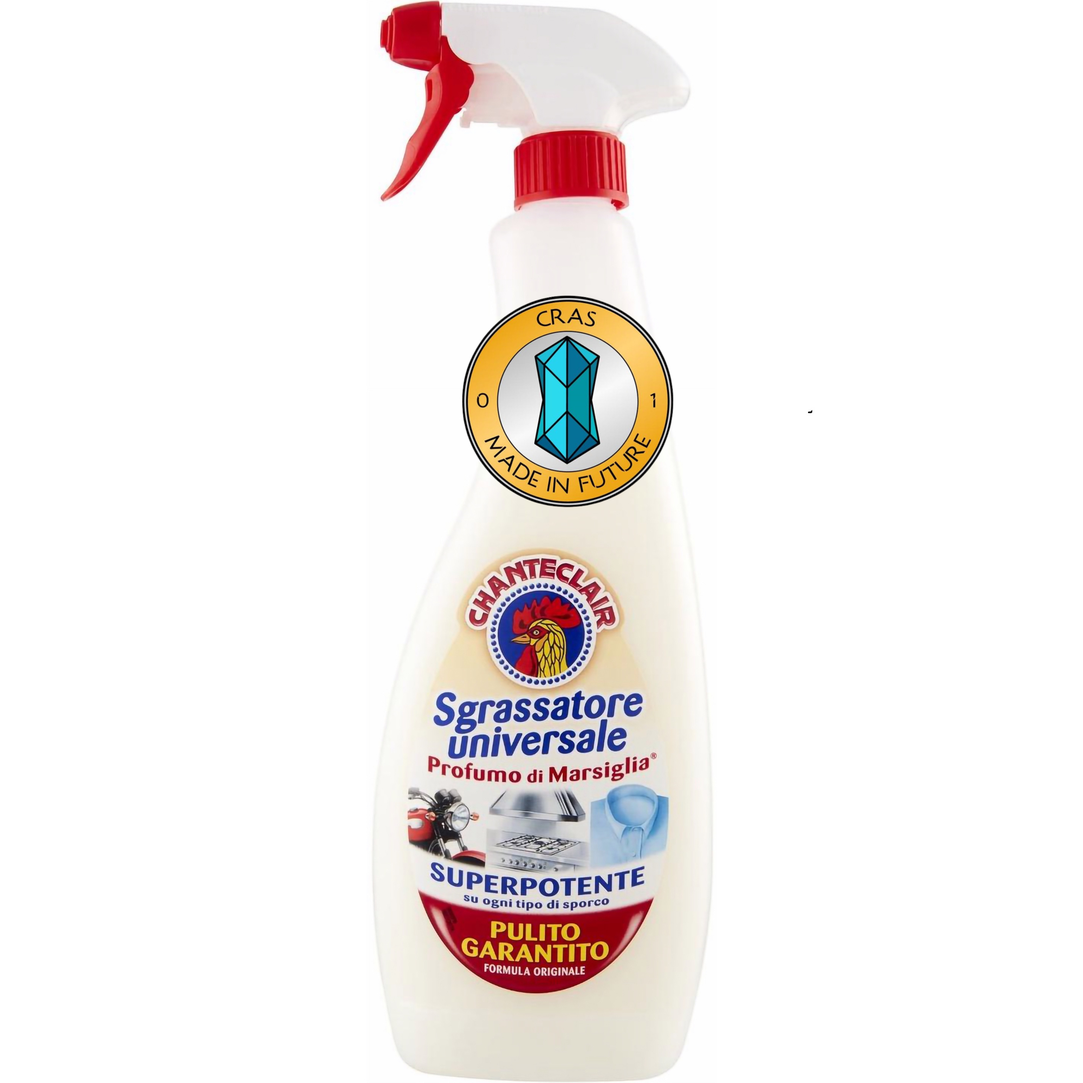
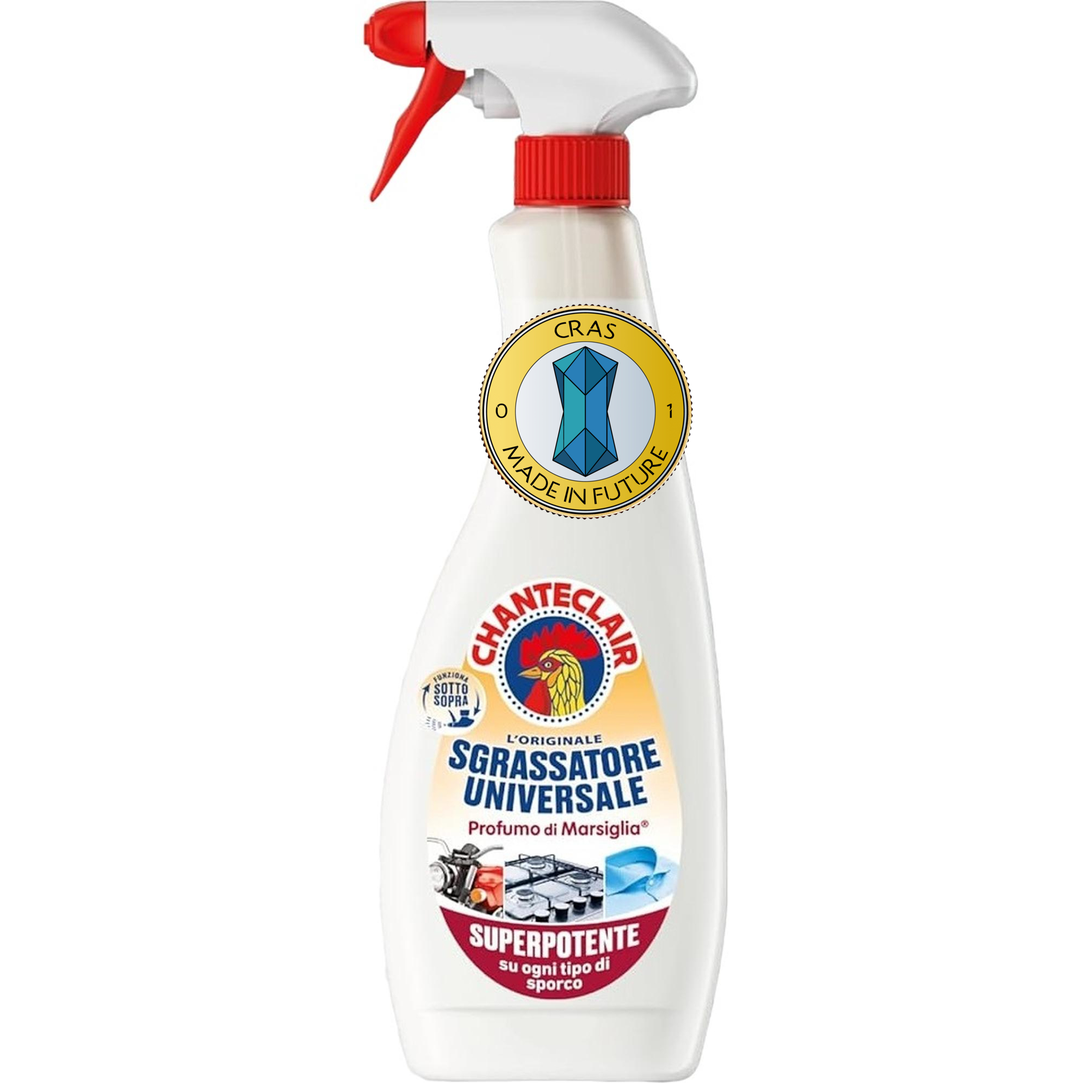
New style Chanteclair Marsiglia

Changed region(s): [[0.341, 0.0, 0.682, 1.0]]

diff --git a/js/household_chemicals/array-stain-removers.js b/js/household_chemicals/array-stain-removers.js
@@ -651,41 +651,41 @@ export const shopLotsStainRemovers = [
         countryName: "Італія",
         volumeName: "Об'єм",
         volume: "600 мл.",
-        priceGRN: 132,
-        priceGRNOpt: 116,
+        priceGRN: 143,
+        priceGRNOpt: 121,
         description01: "Представляємо Вам ідеальний засіб &#171Chanteclair - Sgrassatore Universale Profumo Di Limone&#187 - знежирювач та засіб для виведення плям з ароматом лимону.",
         description02: "Цей універсальний засіб ефективно розчиняє жир та видаляє плями, а його ніжний аромат лимону наповнює простір чистотою та гармонією.",
         description03: "Завдяки &#171Chanteclair - Sgrassatore Universale Profumo Di Limone&#187 Ваша кожна річ стане не тільки чистою, але і наповненою чарівним ароматом лимону. Задовольняйте своє бажання насолоджуватися приємними запахами та бездоганною чистотою.",
         description04: "<strong>Запаска! Знежирювач універсальний, засіб для виведення плям. Аромат: лимон. Не застосовувати з іншими засобами!</strong>",
         description05: "Покращте якість прибирання свого дому просто зараз - замовте &#171Chanteclair - Sgrassatore Universale Profumo Di Limone&#187 та створіть неповторний ароматичний шедевр у кожному куточку Вашого життя!"
     },
-    // {
-    //     type: "wholesale оптом",
-    //     mainCategory: "household-chemicals",
-    //     subcategory: "detergents",
-    //     url: "./images/shop/household_chemicals/universal_tools/chanteclair_sgrassatore_universale_marsiglia_600.jpg",
-    //     alt: "chanteclair_sgrassatore_universale_marsiglia_600",
-    //     url1: "./images/shop/household_chemicals/universal_tools/chanteclair_sgrassatore_universale_marsiglia_600-01.jpg",
-    //     alt1: "chanteclair_sgrassatore_universale_marsiglia_600-01",
-    //     url2: "./images/shop/household_chemicals/universal_tools/chanteclair_sgrassatore_universale_marsiglia_600-02.jpg",
-    //     alt2: "chanteclair_sgrassatore_universale_marsiglia_600-02",
-    //     marker: "HCUT135",
-    //     brand: "Chanteclair",
-    //     search: "шантеклер півник півень петух петушок засоби видалення пляма плямовивідники пятновыводитель пятновыдодители засіб проти жиру обезжириватель средство средства против жира с ароматом марсель марселя",
-    //     nameUKR: "Універсальний знежирювач, засіб для виведення плям з марсельським милом",
-    //     nameEN: "Sgrassatore Universale Profumo Di Marsiglia",
-    //     companyName: "Real Chimica Srl",
-    //     countryName: "Італія",
-    //     volumeName: "Об'єм",
-    //     volume: "600 мл.",
-    //     priceGRN: 143,
-    //     priceGRNOpt: 121,
-    //     description01: "Представляємо Вам ідеальний засіб &#171Chanteclair - Sgrassatore Universale Profumo Di Marsiglia&#187 - знежирювач та засіб для виведення плям з марсельським милом.",
-    //     description02: "Цей універсальний засіб ефективно розчиняє жир та видаляє плями, а його ніжний марсельський аромат наповнює простір чистотою та гармонією.",
-    //     description03: "Завдяки &#171Chanteclair - Sgrassatore Universale Profumo Di Marsiglia&#187 Ваша кожна річ стане не тільки чистою, але і наповненою чарівним марсельським милом. Задовольняйте своє бажання насолоджуватися приємними запахами та бездоганною чистотою.",
-    //     description04: "<strong>Знежирювач універсальний, засіб для виведення плям. Аромат: марсельське мило. Не застосовувати з іншими засобами!</strong>",
-    //     description05: "Покращте якість прибирання свого дому просто зараз - замовте &#171Chanteclair - Sgrassatore Universale Profumo Di Marsiglia&#187 та створіть неповторний ароматичний шедевр у кожному куточку Вашого життя!"
-    // },
+    {
+        type: "wholesale оптом",
+        mainCategory: "household-chemicals",
+        subcategory: "detergents",
+        url: "./images/shop/household_chemicals/universal_tools/chanteclair_sgrassatore_universale_marsiglia_600.jpg",
+        alt: "chanteclair_sgrassatore_universale_marsiglia_600",
+        url1: "./images/shop/household_chemicals/universal_tools/chanteclair_sgrassatore_universale_marsiglia_600-01.jpg",
+        alt1: "chanteclair_sgrassatore_universale_marsiglia_600-01",
+        url2: "./images/shop/household_chemicals/universal_tools/chanteclair_sgrassatore_universale_marsiglia_600-02.jpg",
+        alt2: "chanteclair_sgrassatore_universale_marsiglia_600-02",
+        marker: "HCUT135",
+        brand: "Chanteclair",
+        search: "шантеклер півник півень петух петушок засоби видалення пляма плямовивідники пятновыводитель пятновыдодители засіб проти жиру обезжириватель средство средства против жира с ароматом марсель марселя",
+        nameUKR: "Універсальний знежирювач, засіб для виведення плям з марсельським милом",
+        nameEN: "Sgrassatore Universale Profumo Di Marsiglia",
+        companyName: "Real Chimica Srl",
+        countryName: "Італія",
+        volumeName: "Об'єм",
+        volume: "600 мл.",
+        priceGRN: 143,
+        priceGRNOpt: 121,
+        description01: "Представляємо Вам ідеальний засіб &#171Chanteclair - Sgrassatore Universale Profumo Di Marsiglia&#187 - знежирювач та засіб для виведення плям з марсельським милом.",
+        description02: "Цей універсальний засіб ефективно розчиняє жир та видаляє плями, а його ніжний марсельський аромат наповнює простір чистотою та гармонією.",
+        description03: "Завдяки &#171Chanteclair - Sgrassatore Universale Profumo Di Marsiglia&#187 Ваша кожна річ стане не тільки чистою, але і наповненою чарівним марсельським милом. Задовольняйте своє бажання насолоджуватися приємними запахами та бездоганною чистотою.",
+        description04: "<strong>Знежирювач універсальний, засіб для виведення плям. Аромат: марсельське мило. Не застосовувати з іншими засобами!</strong>",
+        description05: "Покращте якість прибирання свого дому просто зараз - замовте &#171Chanteclair - Sgrassatore Universale Profumo Di Marsiglia&#187 та створіть неповторний ароматичний шедевр у кожному куточку Вашого життя!"
+    },
     {
         type: "wholesale оптом",
         mainCategory: "household-chemicals",

diff --git a/js/household_chemicals/array-means-cleaning-kitchen-bathroom.js b/js/household_chemicals/array-means-cleaning-kitchen-bathroom.js
@@ -1147,33 +1147,33 @@ export const shopLotsMeansCleaningKitchenBathroom = [
         description04: "<strong>Запаска! Знежирювач універсальний, засіб для виведення плям. Аромат: лимон. Не застосовувати з іншими засобами!</strong>",
         description05: "Покращте якість прибирання свого дому просто зараз - замовте &#171Chanteclair - Sgrassatore Universale Profumo Di Limone&#187 та створіть неповторний ароматичний шедевр у кожному куточку Вашого життя!"
     },
-    // {
-    //     type: "wholesale оптом",
-    //     mainCategory: "household-chemicals",
-    //     subcategory: "cleaning-care-products",
-    //     url: "./images/shop/household_chemicals/universal_tools/chanteclair_sgrassatore_universale_marsiglia_600.jpg",
-    //     alt: "chanteclair_sgrassatore_universale_marsiglia_600",
-    //     url1: "./images/shop/household_chemicals/universal_tools/chanteclair_sgrassatore_universale_marsiglia_600-01.jpg",
-    //     alt1: "chanteclair_sgrassatore_universale_marsiglia_600-01",
-    //     url2: "./images/shop/household_chemicals/universal_tools/chanteclair_sgrassatore_universale_marsiglia_600-02.jpg",
-    //     alt2: "chanteclair_sgrassatore_universale_marsiglia_600-02",
-    //     marker: "HCUT135",
-    //     brand: "Chanteclair",
-    //     search: "шантеклер півник півень петух петушок засоби видалення пляма плямовивідник плямовивідники пятновыводитель пятновыдодители засіб проти жиру обезжириватель средство средства против жира с ароматом марсель марселя",
-    //     nameUKR: "Універсальний знежирювач, засіб для виведення плям з марсельським милом",
-    //     nameEN: "Sgrassatore Universale Profumo Di Marsiglia",
-    //     companyName: "Real Chimica Srl",
-    //     countryName: "Італія",
-    //     volumeName: "Об'єм",
-    //     volume: "600 мл.",
-    //     priceGRN: 143,
-    //     priceGRNOpt: 121,
-    //     description01: "Представляємо Вам ідеальний засіб &#171Chanteclair - Sgrassatore Universale Profumo Di Marsiglia&#187 - знежирювач та засіб для виведення плям з марсельським милом.",
-    //     description02: "Цей універсальний засіб ефективно розчиняє жир та видаляє плями, а його ніжний марсельський аромат наповнює простір чистотою та гармонією.",
-    //     description03: "Завдяки &#171Chanteclair - Sgrassatore Universale Profumo Di Marsiglia&#187 Ваша кожна річ стане не тільки чистою, але і наповненою чарівним марсельським милом. Задовольняйте своє бажання насолоджуватися приємними запахами та бездоганною чистотою.",
-    //     description04: "<strong>Знежирювач універсальний, засіб для виведення плям. Аромат: марсельське мило. Не застосовувати з іншими засобами!</strong>",
-    //     description05: "Покращте якість прибирання свого дому просто зараз - замовте &#171Chanteclair - Sgrassatore Universale Profumo Di Marsiglia&#187 та створіть неповторний ароматичний шедевр у кожному куточку Вашого життя!"
-    // },
+    {
+        type: "wholesale оптом",
+        mainCategory: "household-chemicals",
+        subcategory: "cleaning-care-products",
+        url: "./images/shop/household_chemicals/universal_tools/chanteclair_sgrassatore_universale_marsiglia_600.jpg",
+        alt: "chanteclair_sgrassatore_universale_marsiglia_600",
+        url1: "./images/shop/household_chemicals/universal_tools/chanteclair_sgrassatore_universale_marsiglia_600-01.jpg",
+        alt1: "chanteclair_sgrassatore_universale_marsiglia_600-01",
+        url2: "./images/shop/household_chemicals/universal_tools/chanteclair_sgrassatore_universale_marsiglia_600-02.jpg",
+        alt2: "chanteclair_sgrassatore_universale_marsiglia_600-02",
+        marker: "HCUT135",
+        brand: "Chanteclair",
+        search: "шантеклер півник півень петух петушок засоби видалення пляма плямовивідник плямовивідники пятновыводитель пятновыдодители засіб проти жиру обезжириватель средство средства против жира с ароматом марсель марселя",
+        nameUKR: "Універсальний знежирювач, засіб для виведення плям з марсельським милом",
+        nameEN: "Sgrassatore Universale Profumo Di Marsiglia",
+        companyName: "Real Chimica Srl",
+        countryName: "Італія",
+        volumeName: "Об'єм",
+        volume: "600 мл.",
+        priceGRN: 143,
+        priceGRNOpt: 121,
+        description01: "Представляємо Вам ідеальний засіб &#171Chanteclair - Sgrassatore Universale Profumo Di Marsiglia&#187 - знежирювач та засіб для виведення плям з марсельським милом.",
+        description02: "Цей універсальний засіб ефективно розчиняє жир та видаляє плями, а його ніжний марсельський аромат наповнює простір чистотою та гармонією.",
+        description03: "Завдяки &#171Chanteclair - Sgrassatore Universale Profumo Di Marsiglia&#187 Ваша кожна річ стане не тільки чистою, але і наповненою чарівним марсельським милом. Задовольняйте своє бажання насолоджуватися приємними запахами та бездоганною чистотою.",
+        description04: "<strong>Знежирювач універсальний, засіб для виведення плям. Аромат: марсельське мило. Не застосовувати з іншими засобами!</strong>",
+        description05: "Покращте якість прибирання свого дому просто зараз - замовте &#171Chanteclair - Sgrassatore Universale Profumo Di Marsiglia&#187 та створіть неповторний ароматичний шедевр у кожному куточку Вашого життя!"
+    },
     {
         type: "wholesale оптом",
         mainCategory: "household-chemicals",

diff --git a/js/household_chemicals/array-means-cleaning-universal.js b/js/household_chemicals/array-means-cleaning-universal.js
@@ -601,33 +601,33 @@ export const shopLotsMeansCleaningUniversal = [
         description04: "<strong>Запаска! Знежирювач універсальний, засіб для виведення плям. Аромат: лимон. Не застосовувати з іншими засобами!</strong>",
         description05: "Покращте якість прибирання свого дому просто зараз - замовте &#171Chanteclair - Sgrassatore Universale Profumo Di Limone&#187 та створіть неповторний ароматичний шедевр у кожному куточку Вашого життя!"
     },
-    // {
-    //     type: "wholesale оптом",
-    //     mainCategory: "household-chemicals",
-    //     subcategory: "cleaning-care-products",
-    //     url: "./images/shop/household_chemicals/universal_tools/chanteclair_sgrassatore_universale_marsiglia_600.jpg",
-    //     alt: "chanteclair_sgrassatore_universale_marsiglia_600",
-    //     url1: "./images/shop/household_chemicals/universal_tools/chanteclair_sgrassatore_universale_marsiglia_600-01.jpg",
-    //     alt1: "chanteclair_sgrassatore_universale_marsiglia_600-01",
-    //     url2: "./images/shop/household_chemicals/universal_tools/chanteclair_sgrassatore_universale_marsiglia_600-02.jpg",
-    //     alt2: "chanteclair_sgrassatore_universale_marsiglia_600-02",
-    //     marker: "HCUT135",
-    //     brand: "Chanteclair",
-    //     search: "шантеклер півник півень петух петушок засоби видалення пляма плямовивідник плямовивідники пятновыводитель пятновыдодители засіб проти жиру обезжириватель средство средства против жира с ароматом марсель марселя",
-    //     nameUKR: "Універсальний знежирювач, засіб для виведення плям з марсельським милом",
-    //     nameEN: "Sgrassatore Universale Profumo Di Marsiglia",
-    //     companyName: "Real Chimica Srl",
-    //     countryName: "Італія",
-    //     volumeName: "Об'єм",
-    //     volume: "600 мл.",
-    //     priceGRN: 143,
-    //     priceGRNOpt: 121,
-    //     description01: "Представляємо Вам ідеальний засіб &#171Chanteclair - Sgrassatore Universale Profumo Di Marsiglia&#187 - знежирювач та засіб для виведення плям з марсельським милом.",
-    //     description02: "Цей універсальний засіб ефективно розчиняє жир та видаляє плями, а його ніжний марсельський аромат наповнює простір чистотою та гармонією.",
-    //     description03: "Завдяки &#171Chanteclair - Sgrassatore Universale Profumo Di Marsiglia&#187 Ваша кожна річ стане не тільки чистою, але і наповненою чарівним марсельським милом. Задовольняйте своє бажання насолоджуватися приємними запахами та бездоганною чистотою.",
-    //     description04: "<strong>Знежирювач універсальний, засіб для виведення плям. Аромат: марсельське мило. Не застосовувати з іншими засобами!</strong>",
-    //     description05: "Покращте якість прибирання свого дому просто зараз - замовте &#171Chanteclair - Sgrassatore Universale Profumo Di Marsiglia&#187 та створіть неповторний ароматичний шедевр у кожному куточку Вашого життя!"
-    // },
+    {
+        type: "wholesale оптом",
+        mainCategory: "household-chemicals",
+        subcategory: "cleaning-care-products",
+        url: "./images/shop/household_chemicals/universal_tools/chanteclair_sgrassatore_universale_marsiglia_600.jpg",
+        alt: "chanteclair_sgrassatore_universale_marsiglia_600",
+        url1: "./images/shop/household_chemicals/universal_tools/chanteclair_sgrassatore_universale_marsiglia_600-01.jpg",
+        alt1: "chanteclair_sgrassatore_universale_marsiglia_600-01",
+        url2: "./images/shop/household_chemicals/universal_tools/chanteclair_sgrassatore_universale_marsiglia_600-02.jpg",
+        alt2: "chanteclair_sgrassatore_universale_marsiglia_600-02",
+        marker: "HCUT135",
+        brand: "Chanteclair",
+        search: "шантеклер півник півень петух петушок засоби видалення пляма плямовивідник плямовивідники пятновыводитель пятновыдодители засіб проти жиру обезжириватель средство средства против жира с ароматом марсель марселя",
+        nameUKR: "Універсальний знежирювач, засіб для виведення плям з марсельським милом",
+        nameEN: "Sgrassatore Universale Profumo Di Marsiglia",
+        companyName: "Real Chimica Srl",
+        countryName: "Італія",
+        volumeName: "Об'єм",
+        volume: "600 мл.",
+        priceGRN: 143,
+        priceGRNOpt: 121,
+        description01: "Представляємо Вам ідеальний засіб &#171Chanteclair - Sgrassatore Universale Profumo Di Marsiglia&#187 - знежирювач та засіб для виведення плям з марсельським милом.",
+        description02: "Цей універсальний засіб ефективно розчиняє жир та видаляє плями, а його ніжний марсельський аромат наповнює простір чистотою та гармонією.",
+        description03: "Завдяки &#171Chanteclair - Sgrassatore Universale Profumo Di Marsiglia&#187 Ваша кожна річ стане не тільки чистою, але і наповненою чарівним марсельським милом. Задовольняйте своє бажання насолоджуватися приємними запахами та бездоганною чистотою.",
+        description04: "<strong>Знежирювач універсальний, засіб для виведення плям. Аромат: марсельське мило. Не застосовувати з іншими засобами!</strong>",
+        description05: "Покращте якість прибирання свого дому просто зараз - замовте &#171Chanteclair - Sgrassatore Universale Profumo Di Marsiglia&#187 та створіть неповторний ароматичний шедевр у кожному куточку Вашого життя!"
+    },
     {
         type: "wholesale оптом",
         mainCategory: "household-chemicals",

diff --git a/js/array-new-items.js b/js/array-new-items.js
@@ -1,6 +1,33 @@
 export const shopLotsNewItems = [
     {
         type: "wholesale оптом",
+        mainCategory: "hygiene-products",
+        subcategory: "wipes",
+        url: "./images/shop/gigiena/wipes/wet_wipes/babybella_wet_wipes_super_soft_120.jpg",
+        alt: "babybella_wet_wipes_super_soft_120",
+        url1: "./images/shop/gigiena/wipes/wet_wipes/babybella_wet_wipes_super_soft_120-01.jpg",
+        alt1: "babybella_wet_wipes_super_soft_120-01",
+        url2: "./images/shop/gigiena/wipes/wet_wipes/babybella_wet_wipes_super_soft_120-02.jpg",
+        alt2: "babybella_wet_wipes_super_soft_120-02",
+        marker: "WTWS075",
+        brand: "Babybella",
+        search: "детская детские серветка влажная влажные салфетка салфетки супер мягкие",
+        nameUKR: "Дитячі вологі серветки, супер м'які",
+        nameEN: "Super Soft",
+        companyName: "Ariya Imex Tekstil",
+        countryName: "Туреччина",
+        quantityName: "Кількість",
+        quantity: "120 шт.",
+        priceGRN: 49,
+        priceGRNOpt: 44,
+        description01: "Дитячі вологі серветки &#171Babybella - Super Soft&#187 – ніжність, яку відчуваєш з першого дотику.",
+        description02: "Їх м’яка текстура дбайливо очищує шкіру малюка, не викликаючи подразнень, ідеально підходить навіть для найчутливішої шкіри.",
+        description03: "&#171Babybella - Super Soft&#187 не містять спирту, парабенів та зайвих добавок — тільки турбота і безпека у кожному русі.",
+        description04: "<strong>Дитячі вологі серветки. Без алкоголю, парабенів. Містить пластик. Підходять для будь-якого типу шкіри.</strong>",
+        description05: "Додайте &#171Babybella - Super Soft&#187 до своєї щоденної рутини догляду з упевненістю і спокоєм!"
+    },
+    {
+        type: "wholesale оптом",
         mainCategory: "household-chemicals",
         subcategory: "detergents",
         url: "./images/shop/household_chemicals/laundry_detergents/stain_removers/denkmit_multi_flecken_entferner_oxi_power_750.jpg",
@@ -56,6 +83,33 @@ export const shopLotsNewItems = [
         description03: "Безпечний склад &#171Denkmit - Power-Weiss Oxi Power&#187 без барвників і консервантів працює як підсилювач прального засобу або для попередньої обробки.",
         description04: "<strong>Засіб для виведення плям, для білих речей. Активний кисень (15-30%). Підсилювач прального засобу та для попередньої обробки. Антисивина. Нейтралізатор запахів. Без барвників та консервантів. Не підходить для вовни та шовку.</strong>",
         description05: "Оберіть &#171Denkmit - Power-Weiss Oxi Power&#187, щоб Ваші речі знову стали сліпуче білими!"
+    },
+    {
+        type: "wholesale оптом",
+        mainCategory: "household-chemicals",
+        subcategory: "detergents",
+        url: "./images/shop/household_chemicals/universal_tools/chanteclair_sgrassatore_universale_marsiglia_600.jpg",
+        alt: "chanteclair_sgrassatore_universale_marsiglia_600",
+        url1: "./images/shop/household_chemicals/universal_tools/chanteclair_sgrassatore_universale_marsiglia_600-01.jpg",
+        alt1: "chanteclair_sgrassatore_universale_marsiglia_600-01",
+        url2: "./images/shop/household_chemicals/universal_tools/chanteclair_sgrassatore_universale_marsiglia_600-02.jpg",
+        alt2: "chanteclair_sgrassatore_universale_marsiglia_600-02",
+        marker: "HCUT135",
+        brand: "Chanteclair",
+        search: "шантеклер півник півень петух петушок засоби видалення пляма плямовивідники пятновыводитель пятновыдодители засіб проти жиру обезжириватель средство средства против жира с ароматом марсель марселя",
+        nameUKR: "Універсальний знежирювач, засіб для виведення плям з марсельським милом",
+        nameEN: "Sgrassatore Universale Profumo Di Marsiglia",
+        companyName: "Real Chimica Srl",
+        countryName: "Італія",
+        volumeName: "Об'єм",
+        volume: "600 мл.",
+        priceGRN: 143,
+        priceGRNOpt: 121,
+        description01: "Представляємо Вам ідеальний засіб &#171Chanteclair - Sgrassatore Universale Profumo Di Marsiglia&#187 - знежирювач та засіб для виведення плям з марсельським милом.",
+        description02: "Цей універсальний засіб ефективно розчиняє жир та видаляє плями, а його ніжний марсельський аромат наповнює простір чистотою та гармонією.",
+        description03: "Завдяки &#171Chanteclair - Sgrassatore Universale Profumo Di Marsiglia&#187 Ваша кожна річ стане не тільки чистою, але і наповненою чарівним марсельським милом. Задовольняйте своє бажання насолоджуватися приємними запахами та бездоганною чистотою.",
+        description04: "<strong>Знежирювач універсальний, засіб для виведення плям. Аромат: марсельське мило. Не застосовувати з іншими засобами!</strong>",
+        description05: "Покращте якість прибирання свого дому просто зараз - замовте &#171Chanteclair - Sgrassatore Universale Profumo Di Marsiglia&#187 та створіть неповторний ароматичний шедевр у кожному куточку Вашого життя!"
     },
     {
         type: "wholesale оптом",

diff --git a/js/hygiene/array-wet-wipes.js b/js/hygiene/array-wet-wipes.js
@@ -134,4 +134,31 @@ export const shopLotsWetWipes = [
         description04: "<strong>Дитячі вологі серветки. Аромат: дика полуниця. Без алкоголю, парабенів. Містить пластик. Підходять для будь-якого типу шкіри.</strong>",
         description05: "Замовляйте &#171Babybella - Soft & Thick Wet Wipes Wild Strawberry&#187 – створюйте моменти турботи, які надихають!"
     },
+    {
+        type: "wholesale оптом",
+        mainCategory: "hygiene-products",
+        subcategory: "wipes",
+        url: "./images/shop/gigiena/wipes/wet_wipes/babybella_wet_wipes_super_soft_120.jpg",
+        alt: "babybella_wet_wipes_super_soft_120",
+        url1: "./images/shop/gigiena/wipes/wet_wipes/babybella_wet_wipes_super_soft_120-01.jpg",
+        alt1: "babybella_wet_wipes_super_soft_120-01",
+        url2: "./images/shop/gigiena/wipes/wet_wipes/babybella_wet_wipes_super_soft_120-02.jpg",
+        alt2: "babybella_wet_wipes_super_soft_120-02",
+        marker: "WTWS075",
+        brand: "Babybella",
+        search: "детская детские серветка влажная влажные салфетка салфетки супер мягкие",
+        nameUKR: "Дитячі вологі серветки, супер м'які",
+        nameEN: "Super Soft",
+        companyName: "Ariya Imex Tekstil",
+        countryName: "Туреччина",
+        quantityName: "Кількість",
+        quantity: "120 шт.",
+        priceGRN: 49,
+        priceGRNOpt: 44,
+        description01: "Дитячі вологі серветки &#171Babybella - Super Soft&#187 – ніжність, яку відчуваєш з першого дотику.",
+        description02: "Їх м’яка текстура дбайливо очищує шкіру малюка, не викликаючи подразнень, ідеально підходить навіть для найчутливішої шкіри.",
+        description03: "&#171Babybella - Super Soft&#187 не містять спирту, парабенів та зайвих добавок — тільки турбота і безпека у кожному русі.",
+        description04: "<strong>Дитячі вологі серветки. Без алкоголю, парабенів. Містить пластик. Підходять для будь-якого типу шкіри.</strong>",
+        description05: "Додайте &#171Babybella - Super Soft&#187 до своєї щоденної рутини догляду з упевненістю і спокоєм!"
+    },
 ]
